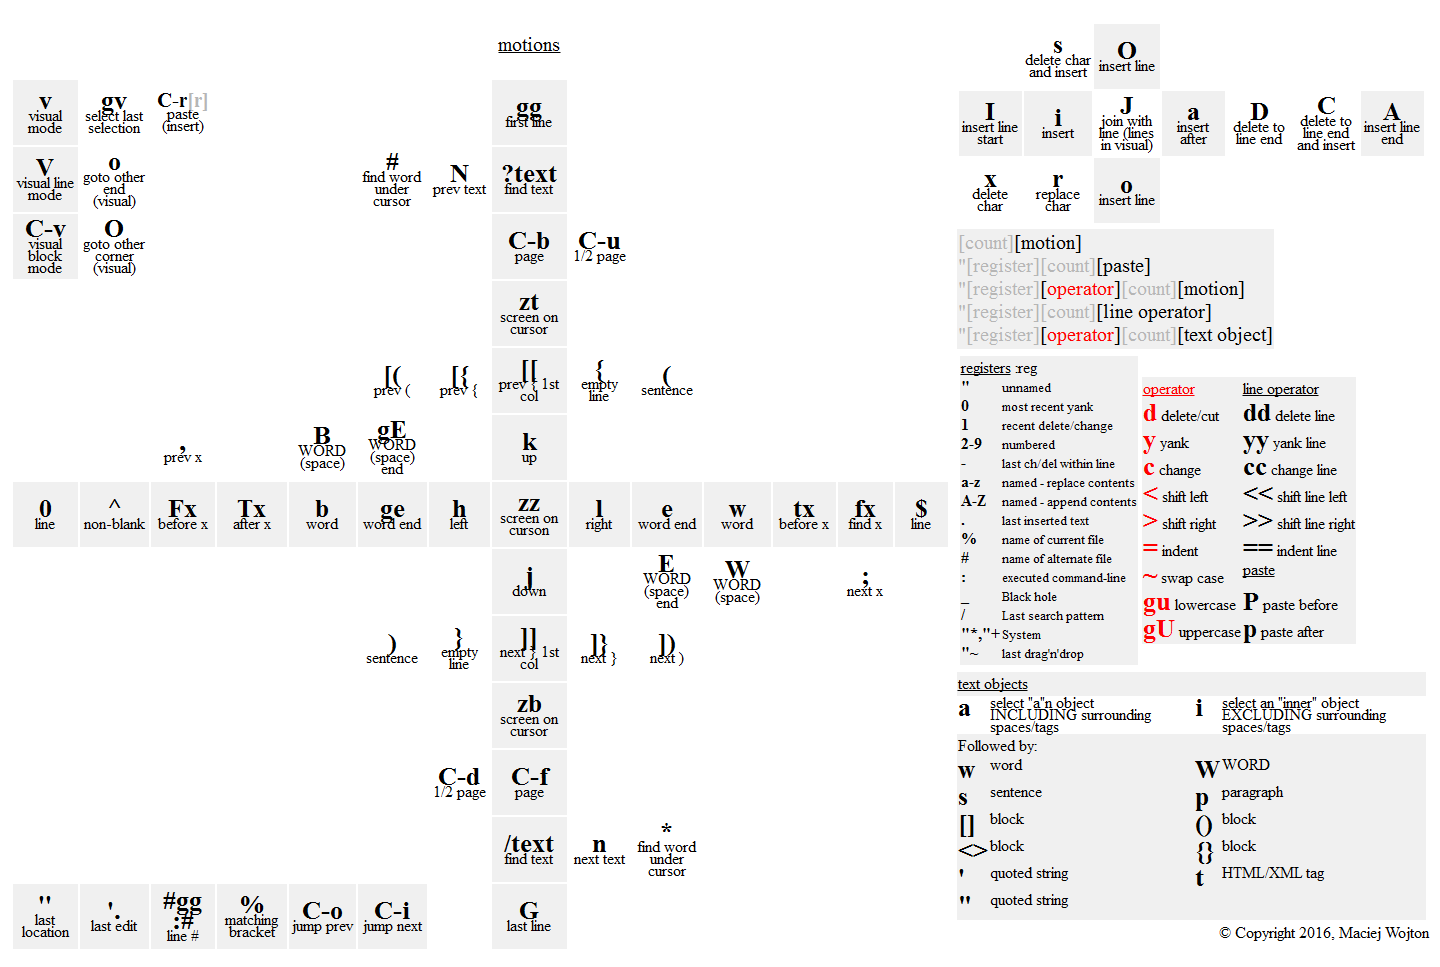
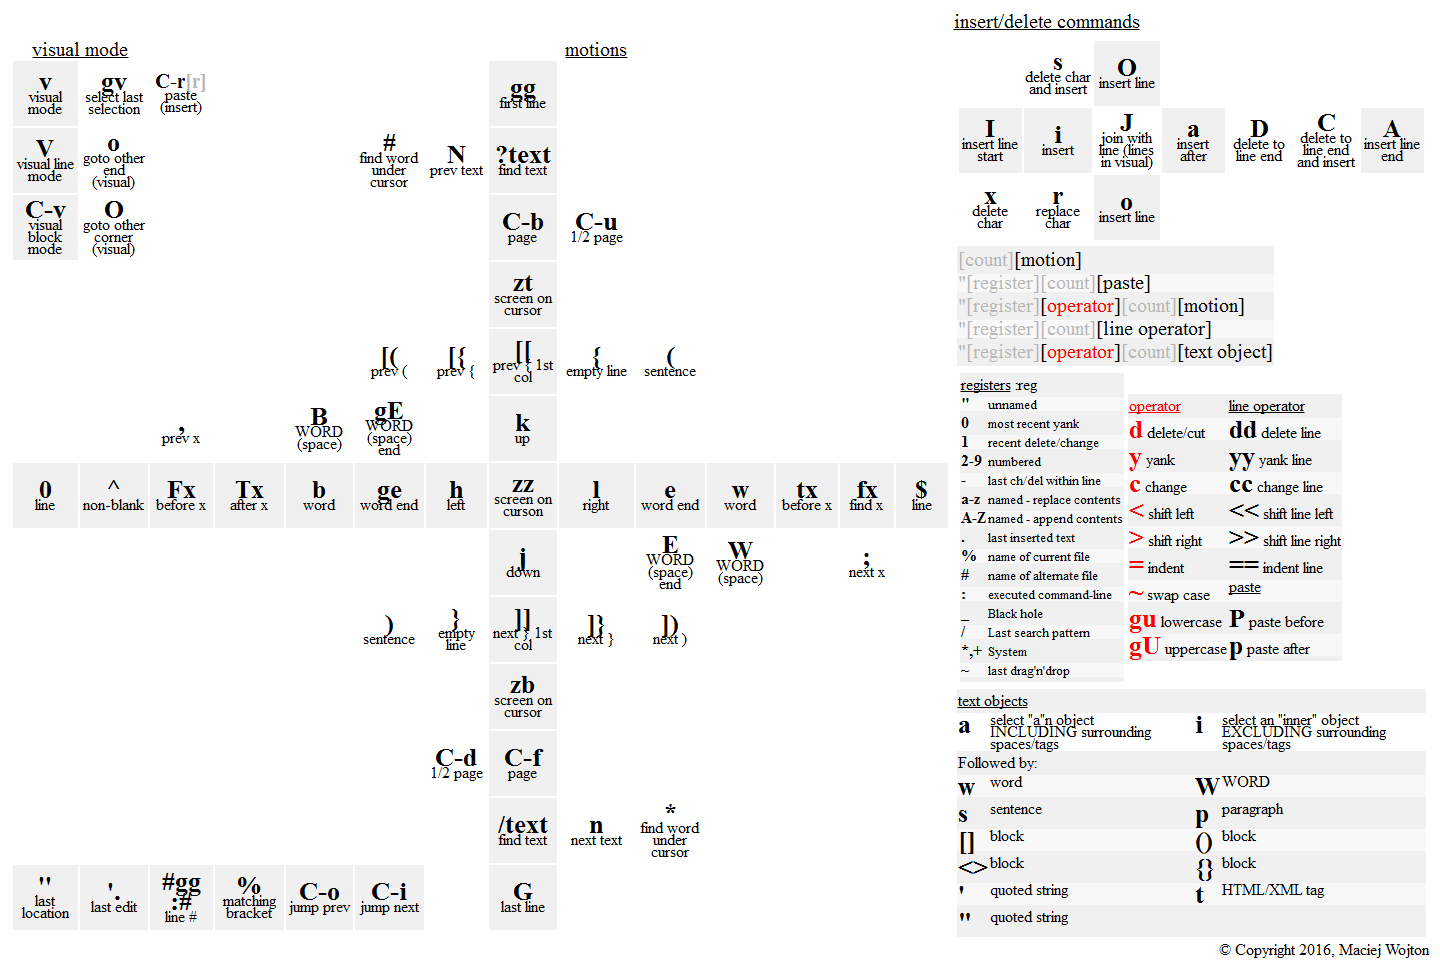
upd

diff --git a/vim_cheatsheet.html b/vim_cheatsheet.html
@@ -8,8 +8,11 @@
     <tr>
         <td>
             <table class="fixed">
-                <tr>
-                    <td/><td/><td/><td/><td/><td/><td/>
+                <tr id="fit">
+                    <td colspan=2>
+                        <medium><u>visual mode</u></medium>
+                    </td>
+                    <td/><td/><td/><td/><td/><td/>
                     <td>
                         <medium><u>motions</u></medium>
                     </td>
@@ -129,6 +132,9 @@
         </td>
         <td>
             <table>
+                <tr>
+                    <medium><u>insert/delete commands</u></medium>
+                </tr>
                 <tr>
                     <td>
                         <table class="fixed">
@@ -310,7 +316,7 @@
                                         </tr>
                                         <tr>
                                             <td>
-                                                <reg>"*,"+</reg>
+                                                <reg>*,+</reg>
                                             </td>
                                             <td>
                                                 <vsmall>System</vsmall>
@@ -318,7 +324,7 @@
                                         </tr>
                                         <tr>
                                             <td>
-                                                <reg>"~</reg>
+                                                <reg>~</reg>
                                             </td>
                                             <td>
                                                 <vsmall>last drag'n'drop</vsmall>

diff --git a/cheat_sheets.css b/cheat_sheets.css
@@ -1,0 +1,123 @@
+body {
+    display: inline-block;
+    box-sizing: border-box;
+    background-color: #FFFFFF;
+}
+
+#p01 {
+    background-color: #F0F0F0;
+}
+
+#p02 {
+    background-color: #FFFFFF;
+}
+
+#fit {
+    height: 100%;
+}
+
+table.commands {
+    table-layout:auto;
+}
+
+table.commands tr:nth-child(even) {
+    background-color: #F0F0F0;
+}
+
+table.fixed {
+    table-layout:auto;
+}
+
+table.fixed td {
+    width: 85px;
+    text-align:center;
+    vertical-align:middle;
+    line-height: 0.8;
+}
+
+table.fixed tr {
+    height: 65px;
+}
+
+table.fixedlist {
+    table-layout:fixed;
+    background-color: #F0F0F0;
+    border-spacing: 0px 5px;
+}
+
+table.fixedlist tr {
+    height: 100%;
+}
+
+table.fixedlist td {
+    text-align:left;
+    vertical-align:top;
+    line-height: 0.8;
+}
+
+table.fixedlist td.bunch {
+    text-align:left;
+}
+
+table.fixedlist tr:nth-child(even) {
+    background-color: #F8F8F8;
+}
+
+td.listlcol {
+    text-align:left;
+    vertical-align:center;
+    font-size: 70%;
+}
+
+td.listrcol {
+    text-align:left;
+    vertical-align:center;
+    font-size: 70%;
+}
+small {
+    font-size: medium;
+}
+
+medium {
+    text-align: center;
+    font-size: 125%;
+}
+
+vsmall {
+    font-size: small;
+}
+
+red {
+    color:#FF0000;
+}
+
+blue {
+    color:#0000FF;
+}
+
+gray {
+    color:#B6B6B6;
+}
+
+td.op {
+    color:#FF0000;
+}
+
+td.headingtd {
+    font-size: 125%;
+}
+
+vimact {
+    font-weight: 900;
+    font-size: 160%;
+}
+
+vimactsmall {
+    font-weight: 900;
+    font-size: 130%;
+}
+
+reg {
+    font-weight: 900;
+    font-size: 100%;
+}
